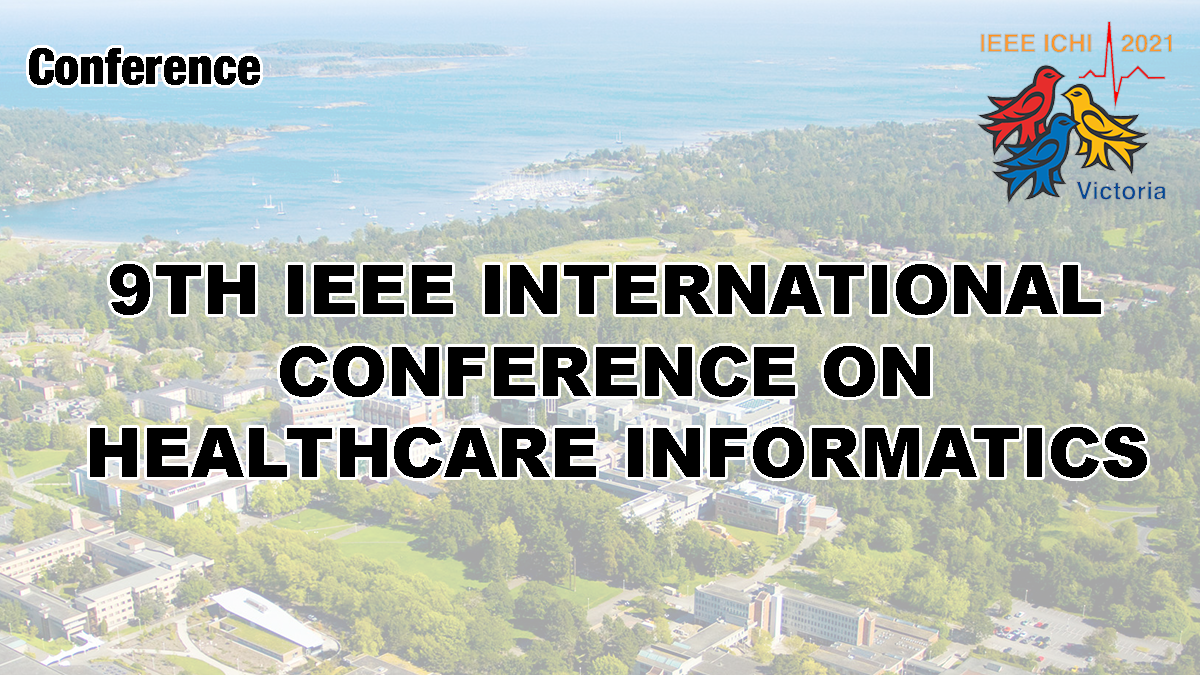
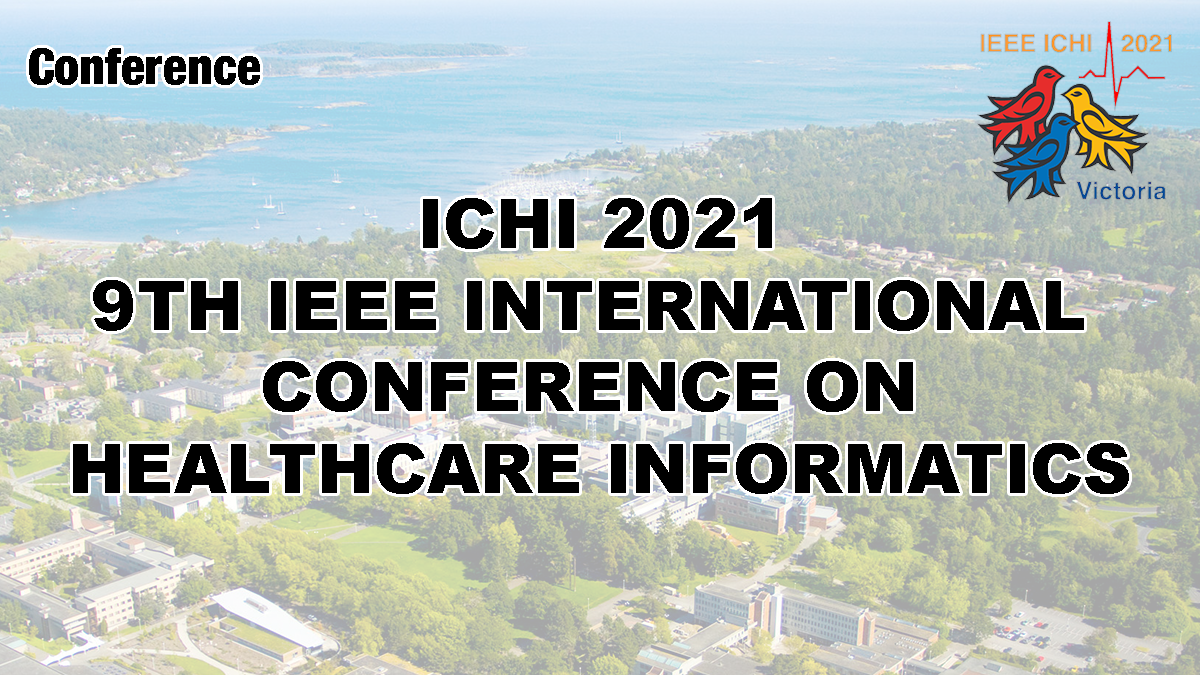
update

Changed region(s): [[0.0308, 0.28, 0.9558, 0.7467]]

diff --git a/pages/lab_activities.html b/pages/lab_activities.html
@@ -91,6 +91,9 @@
             <a href="#editing">Editing</a>
           </div>
           <div class="col-12 col-lg-2">
+            <a href="#startup">Startup</a>
+          </div>
+          <div class="col-12 col-lg-2">
             <a href="#media">Media</a>
           </div>
           <div class="col-12 col-lg-2">
@@ -120,7 +123,7 @@
             of brain disease related to air pollution. This could improve brain health, 
             reduce the prevalence of brain diseases, provide significant economical 
             savings, and provide data that will be used to support planning future 
-            traffic policy across the EU.</div>
+            traffic policy across the EU. <a href="https://www.tube-project.eu/" target="_blank">Read more.</a></div>
         </div>
       </div>
       <div class="row">
@@ -141,15 +144,15 @@
             stratified prior to the disease onset and preventive measures can be 
             targeted to the specific at-risk populations in order to be most effective.<br>
             The main objectives are to:
-           <ul>
-             <li>Discover biomarkers of air pollutant effects.</li>
-             <li>Correlate biomarkers to AD risk to identify sub-groups of 
-               individuals with an increased susceptibility for air pollutant effects.</li>
-              <li>Better understand how the exposure environment is linked with complex 
-                disease mechanisms underlying AD, thus paving the way for future 
-                therapeutic approaches.</li>
-           </ul>  
-
+          <ul>
+            <li>Discover biomarkers of air pollutant effects.</li>
+            <li>Correlate biomarkers to AD risk to identify sub-groups of 
+            individuals with an increased susceptibility for air pollutant effects.</li>
+            <li>Better understand how the exposure environment is linked with complex 
+            disease mechanisms underlying AD, thus paving the way for future 
+            therapeutic approaches.</li>
+          </ul>
+          <a href="https://adair-jpnd.eu/" target="_blank">Read more.</a>
           </div>
         </div>
       </div>
@@ -162,16 +165,20 @@
           <h3>Neuro-innovation PhD programme</h3>
           <div>The University of Eastern Finland has received EU funding to recruit 
             14 doctoral students into a four-year multidisciplinary Neuro-Innovation 
-            PhD programme, which will be implemented on the Kuopio campus.
+            PhD programme, which will be implemented on the Kuopio campus. The University
+            of Verona and Infomics research group are partners of the neuro-innovation PhD programme.
             The Marie Skłodowska-Curie Cofund grant of 1,5 million euros will 
             increase the scope and quality of multidisciplinary research in the 
             UEF Neuroscience Research Community (NEURO). Thereby, it will also 
             generate a strong positive impact on health innovation in Finland and beyond.
-            The recruitment of the international PhD students will start in June 2021.</div>
+            The recruitment of the international PhD students will start in June 2021.
+            <a href="https://www.uef.fi/en/article/neuro-innovation-phd-programme-awarded-15-million-euro-grant-from-the-eu" 
+              target="_blank">Read more.</a>
+          </div>
         </div>
       </div>
       <div class="row">
-        <div class="col-12 more-projects">
+        <div class="col-12">
           <h3>More projects available <a href="https://www.di.univr.it/?ent=persona&id=35790&lang=it" target="_blank">here</a></h3>
         </div>
       </div>
@@ -183,7 +190,7 @@
           alt="airdegen image"/>
         </div>
         <div class="col-12 col-lg-6">
-          <h3>ARIDEGEN</h3>
+          <h3>AIRDEGEN 2021</h3>
           <div>Despite decades of neurodegenerative disease (ND) research, the 
             real molecular pathophysiology of the disease is still poorly 
             understood, and treatments remain inadequate. Remarkably little attention 
@@ -206,7 +213,8 @@
             biomarkers. By identifying biomarkers, the individuals with increased 
             ND risk can be stratified prior to the disease onset and preventive 
             measures can be targeted to the specific at-risk populations in order 
-            to be most effective.</div>
+            to be most effective. <a href="https://sites.google.com/view/airdegen/home" 
+            target="_blank">Read more.</a></div>
         </div>
       </div>
       <div class="row">
@@ -215,7 +223,7 @@
           alt="modimo image"/>
         </div>
         <div class="col-12 col-lg-6">
-          <h3>MODIMO</h3>
+          <h3>MODIMO 2021</h3>
           <div>Multi-omics analysis aims at extracting previously uncovered biological 
             knowledge by integrating information across multiple single-omic sources. 
             Past approaches have focused on the simultaneous analysis of a small 
@@ -232,6 +240,8 @@
             in short, this workshop aims at investigating novel methodologies for 
             providing crucial insights into multi-omics data management, integration, 
             and analysis in order to enable biological discoveries.
+            <a href="https://sites.google.com/view/modimo" 
+            target="_blank">Read more.</a>
           </div>
         </div>
       </div>
@@ -241,12 +251,12 @@
           alt="IEEE conference image"/>
         </div>
         <div class="col-12 col-lg-6">
-          <h3>International conference on Healhcare Informatics</h3>
+          <h3>ICHI 2021</h3>
           <div></div>
         </div>
       </div>
       
-      <h2 id="editing">Editing (?)</h2>
+      <h2 id="editing">Editing</h2>
       <div class="row">
         <div class="col-12 col-lg-5 vertical_align">
           <img src="../img/lab_activities/biomarker_det.png"
@@ -264,9 +274,33 @@
             combination therapies will be discussed within this topic. Particularly, 
             detection of cancer patients with aggressive vs non-aggressive phenotypes, 
             or patients who may benefit from certain targeted therapies or immunotherapies, 
-            using molecular markers will be of interest. </div>
+            using molecular markers will be of interest. 
+            <a href="https://www.frontiersin.org/research-topics/15596/computational-approaches-for-biomarker-detection-and-precision-therapeutics-in-cancers" 
+            target="_blank">Read more.</a>
+          </div>
         </div>
       </div>
+
+      <h2 id="startup">Startup</h2>
+      <div class="row">
+        <div class="col-12 col-lg-5 vertical_align">
+          <img src="../img/lab_activities/htlab.png"
+          alt="Biomarker detection image"/>
+        </div>
+        <div class="col-12 col-lg-6">
+          <h3>HTLab - Healthcare Technology Lab</h3>
+          <div>HTLab (Healthcare Technology Lab) is an innovative startup founded 
+            on November 6, 2019, owned by vEyes (virtual Eyes) - ONLUS. Despite 
+            his young age, thanks to the skills, the laboratories, the infrastructures 
+            and the network with the clinical and technological realities that revolve 
+            around vEyes, HTLab has already been among the winners of the third open 
+            call launched by the FLAME project (H2020, grant agreement no. 731677).
+            <a href="https://www.htlab.it/en/" 
+            target="_blank">Read more.</a>
+          </div>
+        </div>
+      </div>
+
       <h2 id="media">Media</h2>
       <div class="row">
         <div class="col-12 col-lg-5 video">

diff --git a/css/custom.css b/css/custom.css
@@ -201,8 +201,12 @@ a{
 }
 .container-news h2{
     margin-top: 2em;
+    color:#1f1e97
 }
 .container-news h3{
+    color: #54a1c1;
+}
+.container-news h3 a{
     color: #54a1c1;
 }
 .container-news .row .col-12{
@@ -212,9 +216,10 @@ a{
     margin:0;
 }
 
-.container-news h2{
-    color:#1f1e97
+.container-news a{
+    color: black;
 }
+
 .video{
     margin-top: 2em;
 }
@@ -270,7 +275,4 @@ background-color: #555; /* Add a dark-grey background on hover */
 }
 .meme{
     margin-top: 2em;
-}
-.more-projects a{
-    color: #64c7f1;
 }

diff --git a/pages/software.html b/pages/software.html
@@ -166,6 +166,8 @@
               </div>
           </div>
           <div class="col-12 col-lg-6">
+            <img src="../img/softwares/stardust.png"
+            alt="stardust.jpg"/>
           </div>
         </div>  
       </div>
@@ -188,7 +190,7 @@
           </div>
           <div class="col-12 col-lg-6">
             <img src="../img/softwares/crispritz.png"
-            alt="stardust.jpg"/>
+            alt="crispritz.jpg"/>
           </div>
         </div>  
       </div>
